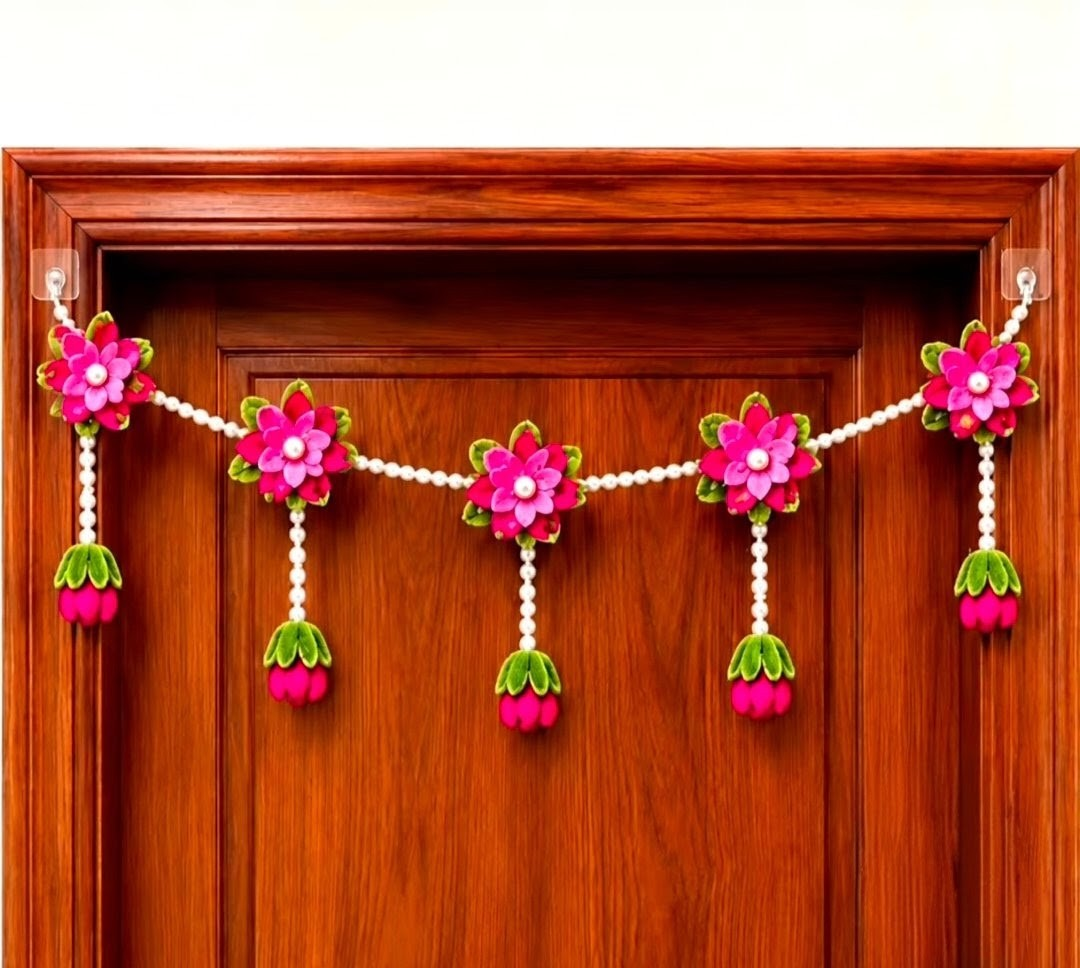
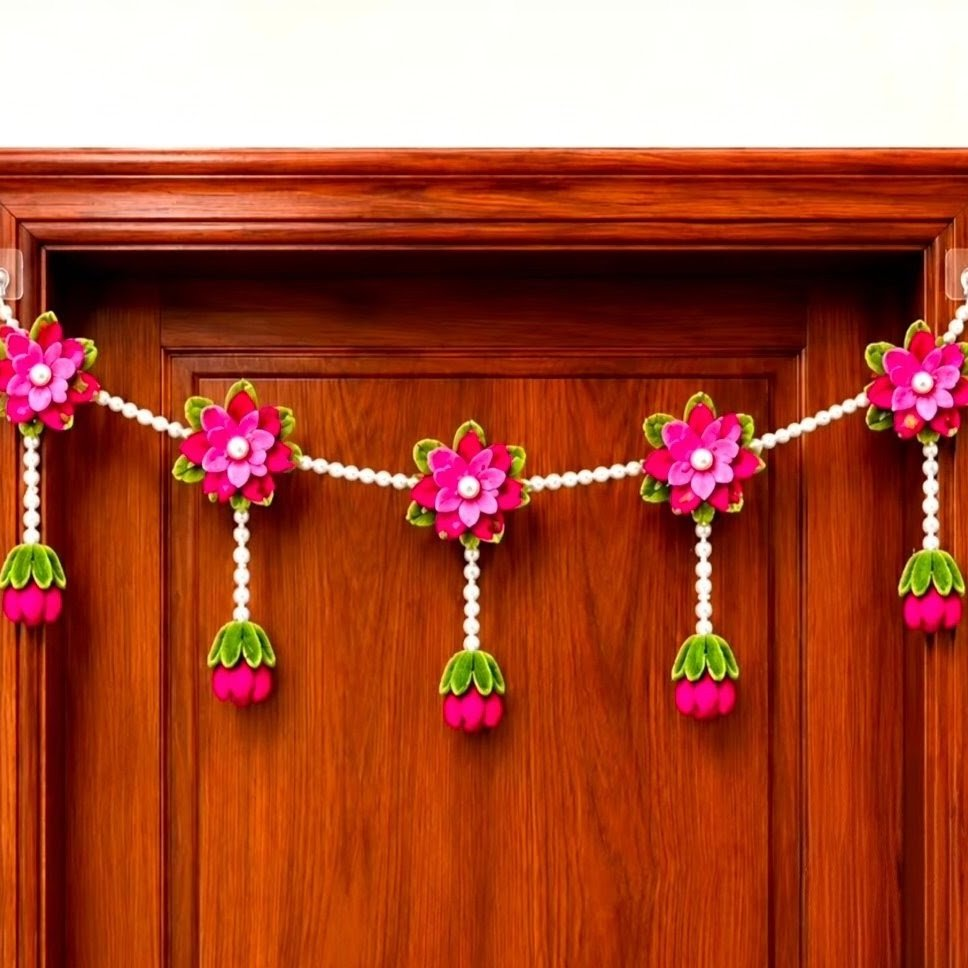
Square all product photos for a consistent grid
Tall shots are centre-cropped up to 1.45; wide shots are cropped only
to 1.25 and otherwise padded with a colour sampled from their own edge,
so garland and toran ends are never cut off. Card boxes are now square.

diff --git a/styles.css b/styles.css
@@ -111,7 +111,7 @@ button { font: inherit; cursor: pointer; }
   transition: transform .2s ease, box-shadow .2s ease;
 }
 .card:hover { transform: translateY(-3px); box-shadow: 0 10px 28px rgba(61, 98, 173, .12); }
-.card-img { position: relative; aspect-ratio: 4 / 5; background: #f6f1e7; }
+.card-img { position: relative; aspect-ratio: 1; background: #f6f1e7; }
 .card-img img { width: 100%; height: 100%; object-fit: contain; }
 .card-zoom { display: block; width: 100%; height: 100%; padding: 0; border: 0; background: none; cursor: zoom-in; }
 .badge {
